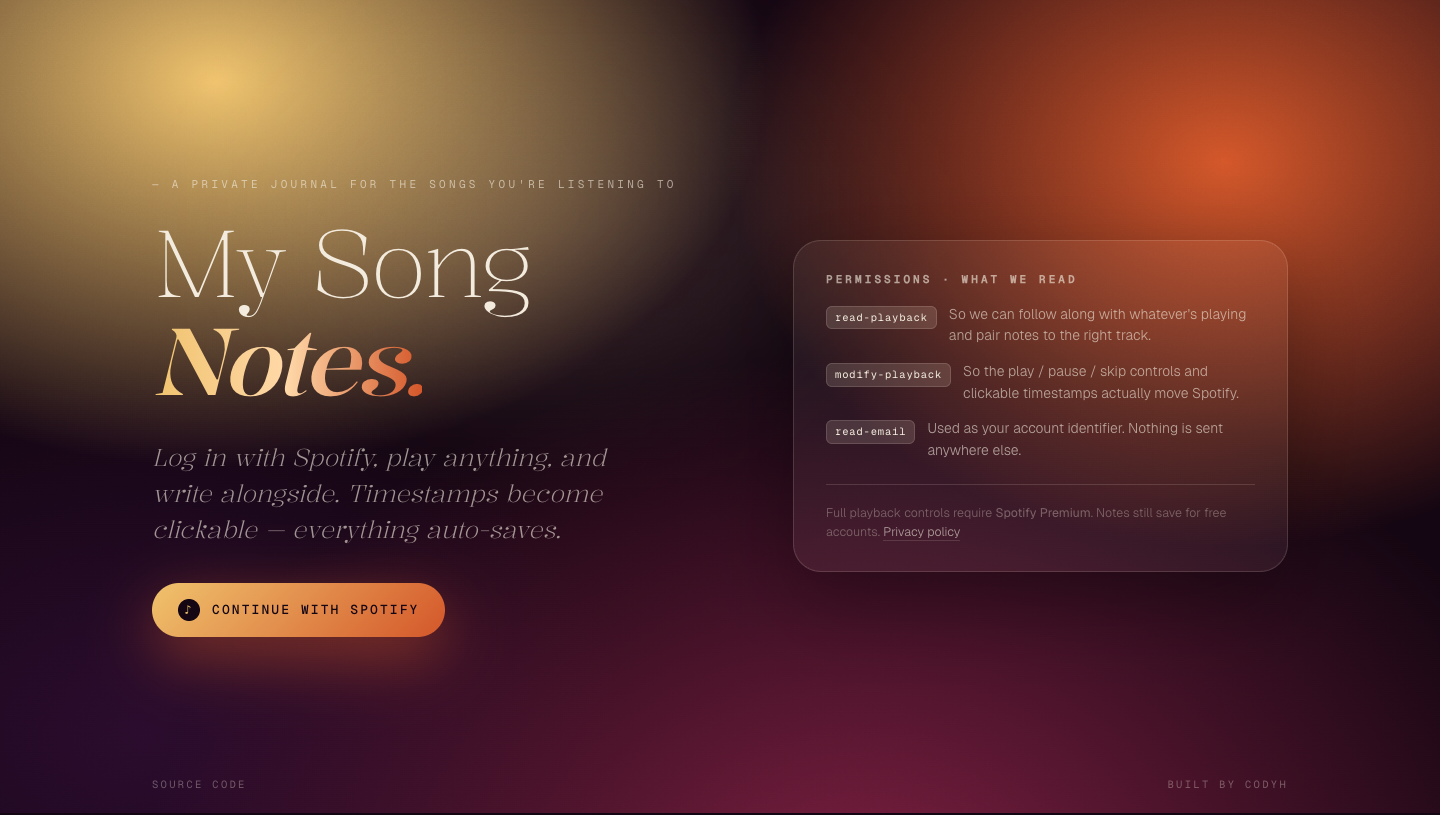
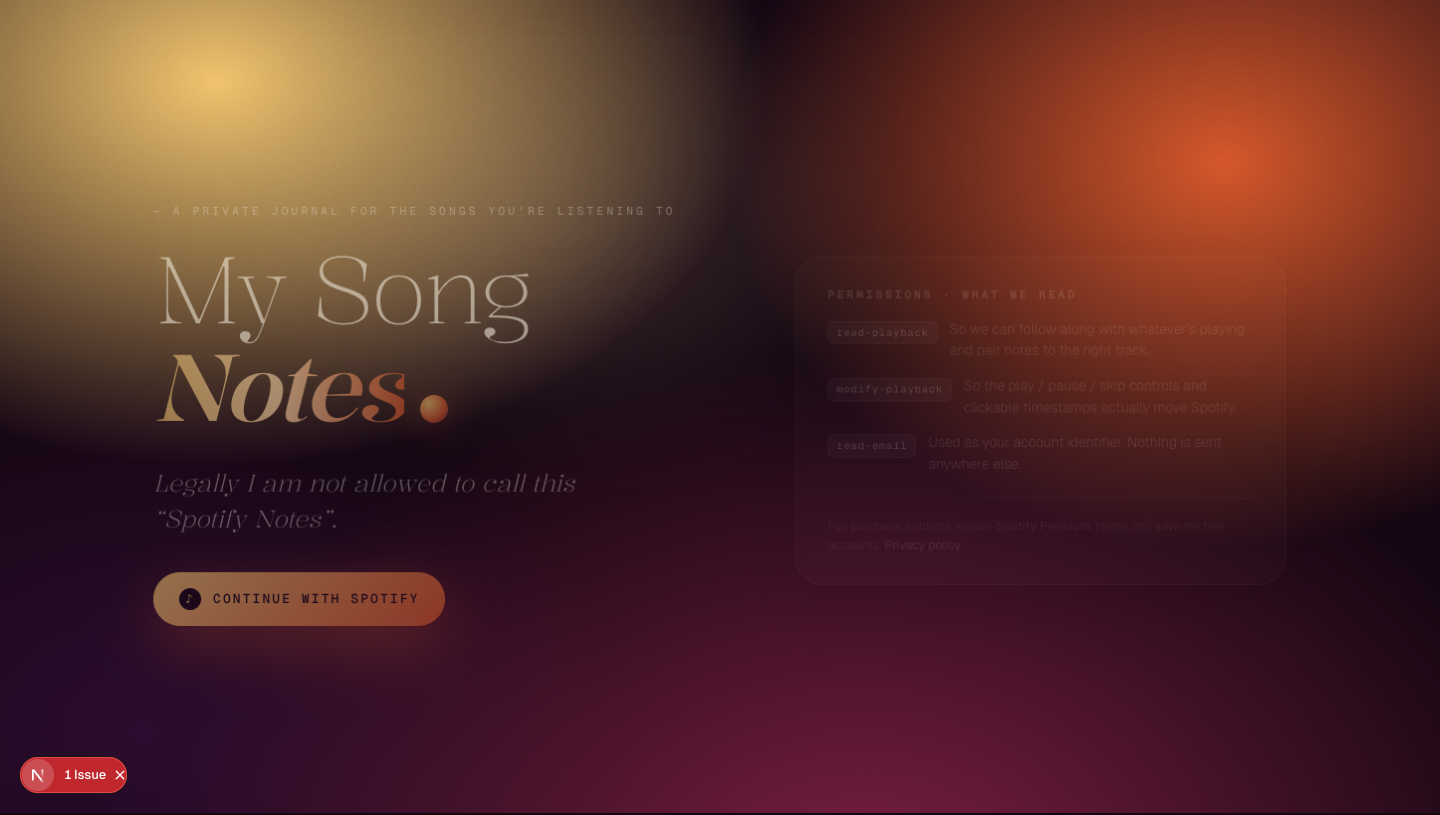
landing: shrink title-orb, italic-correct spacing, make it clickable
Three things wrong with the previous orb-as-period:
- Too big at 0.42em — read as a brand stamp instead of punctuation.
  Pulled to 0.3em.
- Sat right against italic Kalnia 's', whose flourish extends past
  the glyph box, making the 's' look clipped. Bumped margin-left to
  0.18em (italic correction).
- Was a static span. Now a real button that cycles themes the same
  way the topbar .brand .orb does — same pattern (loadTheme,
  applyTheme, saveTheme, nextTheme). Hover/active/focus-visible
  states match the topbar orb so they read as one identity.

Also refreshes screenshots/landing.png so the static portfolio
capture matches the new wordmark + lede.

diff --git a/app/globals.css b/app/globals.css
@@ -776,25 +776,38 @@ input, textarea {
   color: transparent;
 }
 /*
-  The "period" after Notes is the brand orb. Sized in `em` so it tracks
-  the headline's clamp() font-size; positioned to sit where a real
-  italic-serif period would sit (slightly above baseline, near the
-  x-height bottom). Same gradient as the in-app theme-picker .brand .orb
-  so the static and clickable orbs read as one identity.
+  The "period" after Notes is the brand orb, AND it's clickable — it
+  cycles themes the same way the topbar .brand .orb does. Sized in `em`
+  so it tracks the headline's clamp() font-size. The extra left margin
+  is italic-correction: Kalnia's italic `s` has a flourish that extends
+  past its glyph box, and without spacing the orb sits inside that
+  flourish. Same gradient + hover behavior as .brand .orb so the
+  static and clickable orbs read as one identity.
 */
 .login-hero h1 .title-orb {
   display: inline-block;
-  width: 0.42em;
-  height: 0.42em;
+  width: 0.3em;
+  height: 0.3em;
+  padding: 0;
+  border: none;
   border-radius: 50%;
   background: radial-gradient(circle at 30% 30%, var(--c1), var(--c2) 60%, var(--c3));
-  box-shadow: 0 0 0.5em var(--accent-shadow);
-  margin-left: 0.06em;
+  box-shadow: 0 0 0.4em var(--accent-shadow);
+  margin-left: 0.18em;
   /* Negative vertical-align dips the orb below baseline so its CENTER
-     sits roughly where a period would be, instead of the orb's bottom
-     resting on baseline (which would float it too high, like a degree
-     sign). */
-  vertical-align: -0.05em;
+     sits roughly where a period would be. */
+  vertical-align: -0.02em;
+  cursor: pointer;
+  transition: transform 0.2s ease, box-shadow 0.2s ease;
+}
+.login-hero h1 .title-orb:hover {
+  transform: scale(1.18);
+  box-shadow: 0 0 0.5em var(--accent-shadow), 0 0 0 0.05em var(--glass-hi);
+}
+.login-hero h1 .title-orb:active { transform: scale(0.92); }
+.login-hero h1 .title-orb:focus-visible {
+  outline: none;
+  box-shadow: 0 0 0 0.04em var(--ink), 0 0 0.5em var(--accent-shadow);
 }
 .login-hero .lede {
   font-family: var(--font-display), serif;

diff --git a/app/page.tsx b/app/page.tsx
@@ -1,16 +1,38 @@
 "use client";
-import { useEffect } from "react";
+import { useEffect, useState } from "react";
 import { useSession } from "next-auth/react";
 import { useRouter } from "next/navigation";
 import { spotifyLogin } from "../util/authutils";
+import {
+  Theme,
+  THEME_LABELS,
+  applyTheme,
+  loadTheme,
+  nextTheme,
+  saveTheme,
+} from "../util/theme";
 
 export default function Home() {
   const { status } = useSession();
   const router = useRouter();
+  const [theme, setTheme] = useState<Theme>("rose");
 
   useEffect(() => {
     if (status === "authenticated") router.replace("/home");
   }, [status, router]);
+
+  // Pull the persisted theme on mount so the orb's title/aria reflect it.
+  // Providers.tsx already calls applyTheme on mount; this is just for UI.
+  useEffect(() => {
+    setTheme(loadTheme());
+  }, []);
+
+  function cycleTheme() {
+    const t = nextTheme(theme);
+    setTheme(t);
+    applyTheme(t);
+    saveTheme(t);
+  }
 
   useEffect(() => {
     const onMove = (e: PointerEvent) => {
@@ -27,7 +49,13 @@ export default function Home() {
         <div className="kicker">— A private journal for the songs you&apos;re listening to</div>
         <h1>
           My Song <em>Notes</em>
-          <span className="title-orb" aria-hidden />
+          <button
+            type="button"
+            className="title-orb"
+            onClick={cycleTheme}
+            title={`Theme: ${THEME_LABELS[theme]} · click to change`}
+            aria-label={`Change theme (current: ${THEME_LABELS[theme]})`}
+          />
         </h1>
         <p className="lede">
           Legally I am not allowed to call this &ldquo;Spotify Notes&rdquo;.
